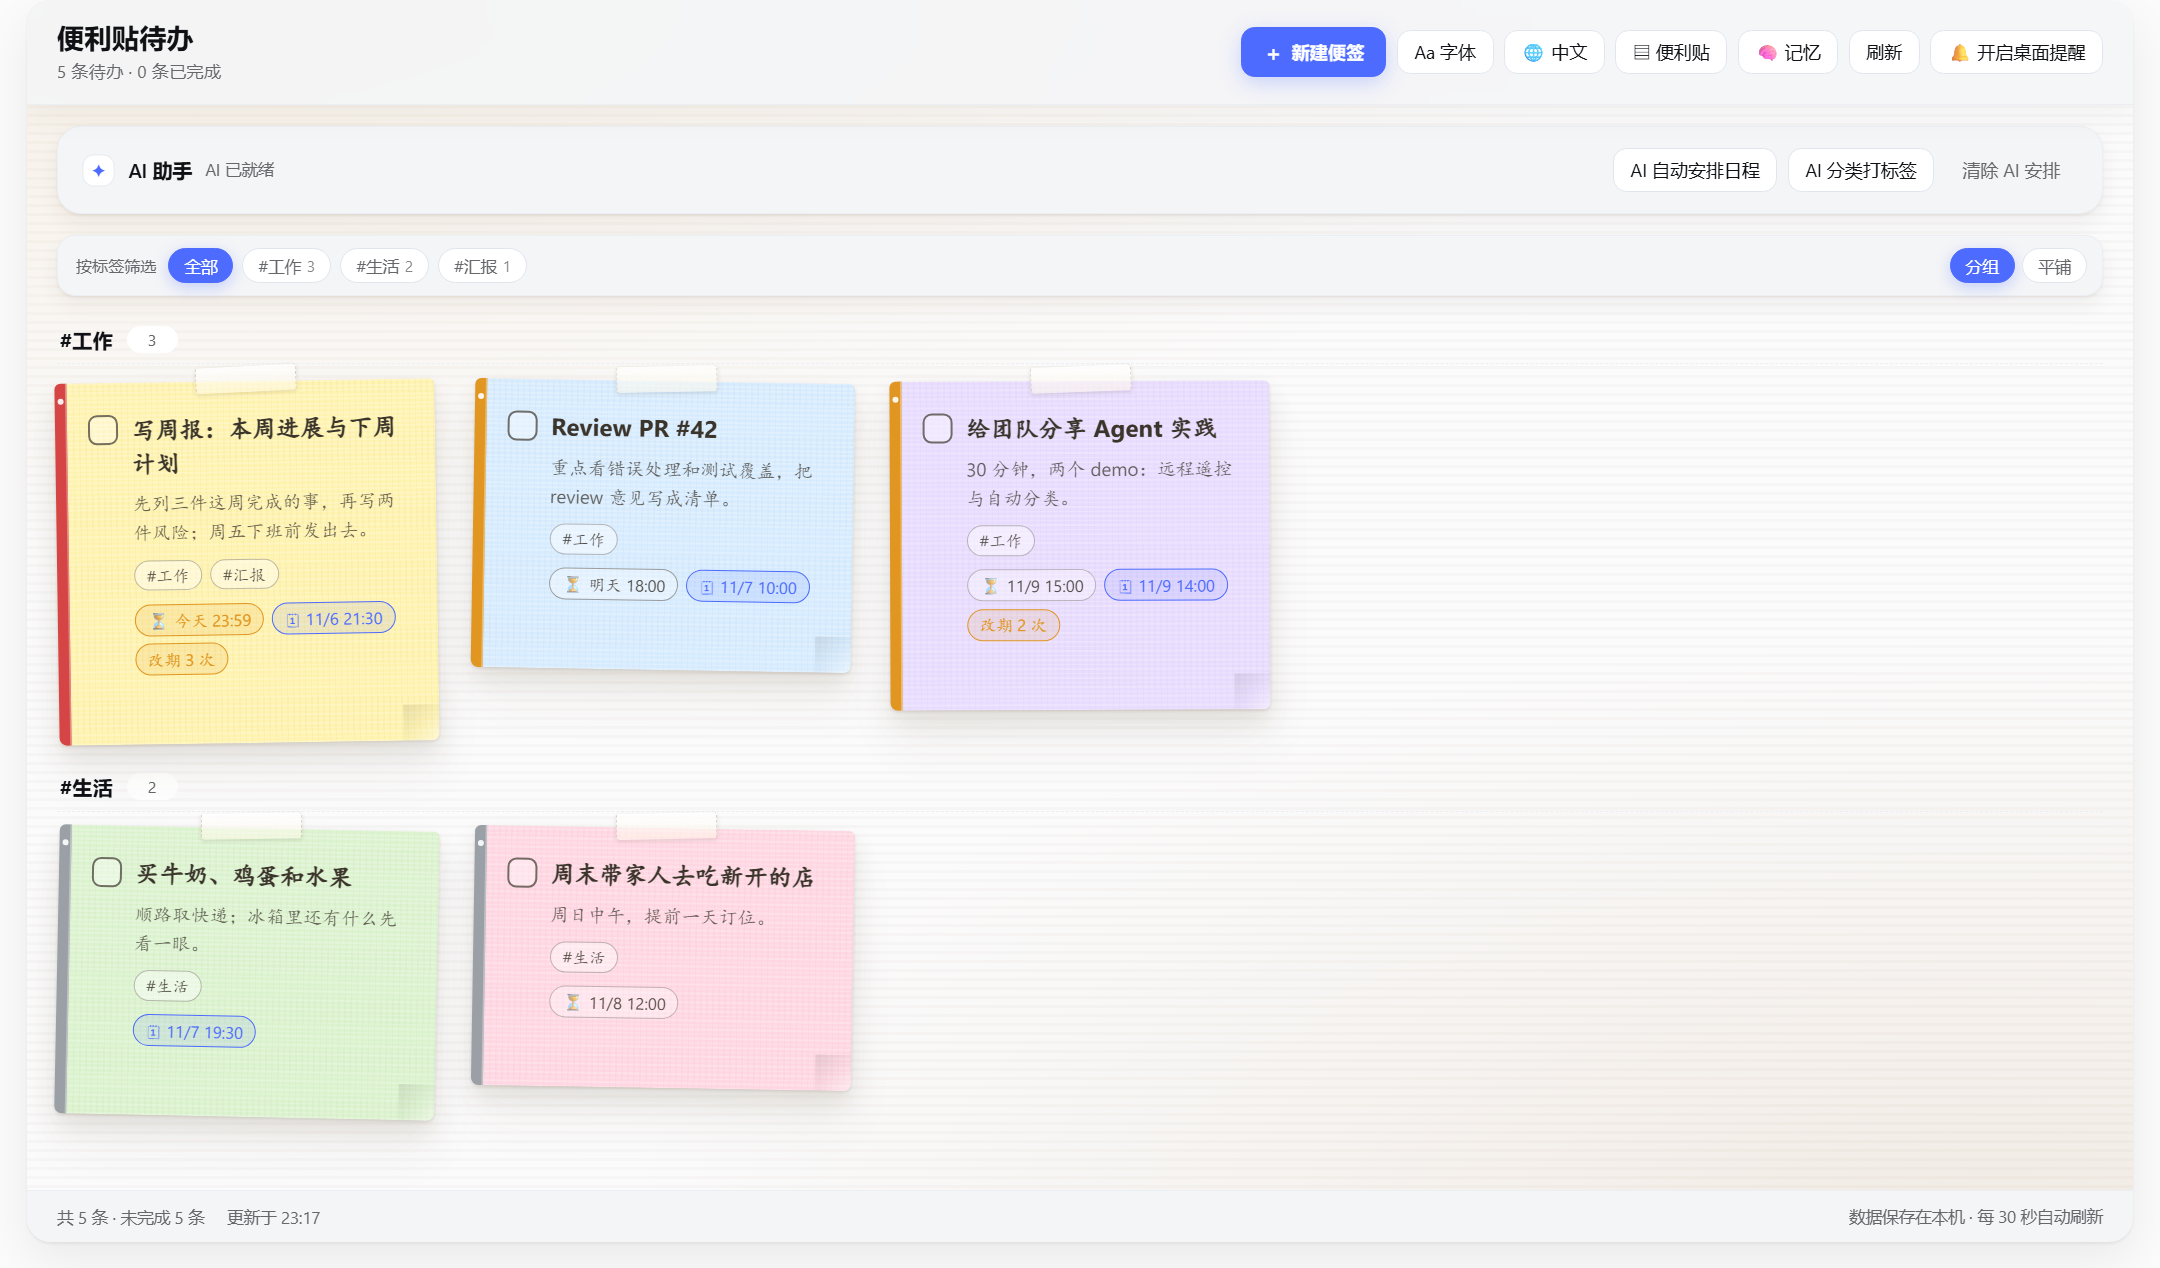
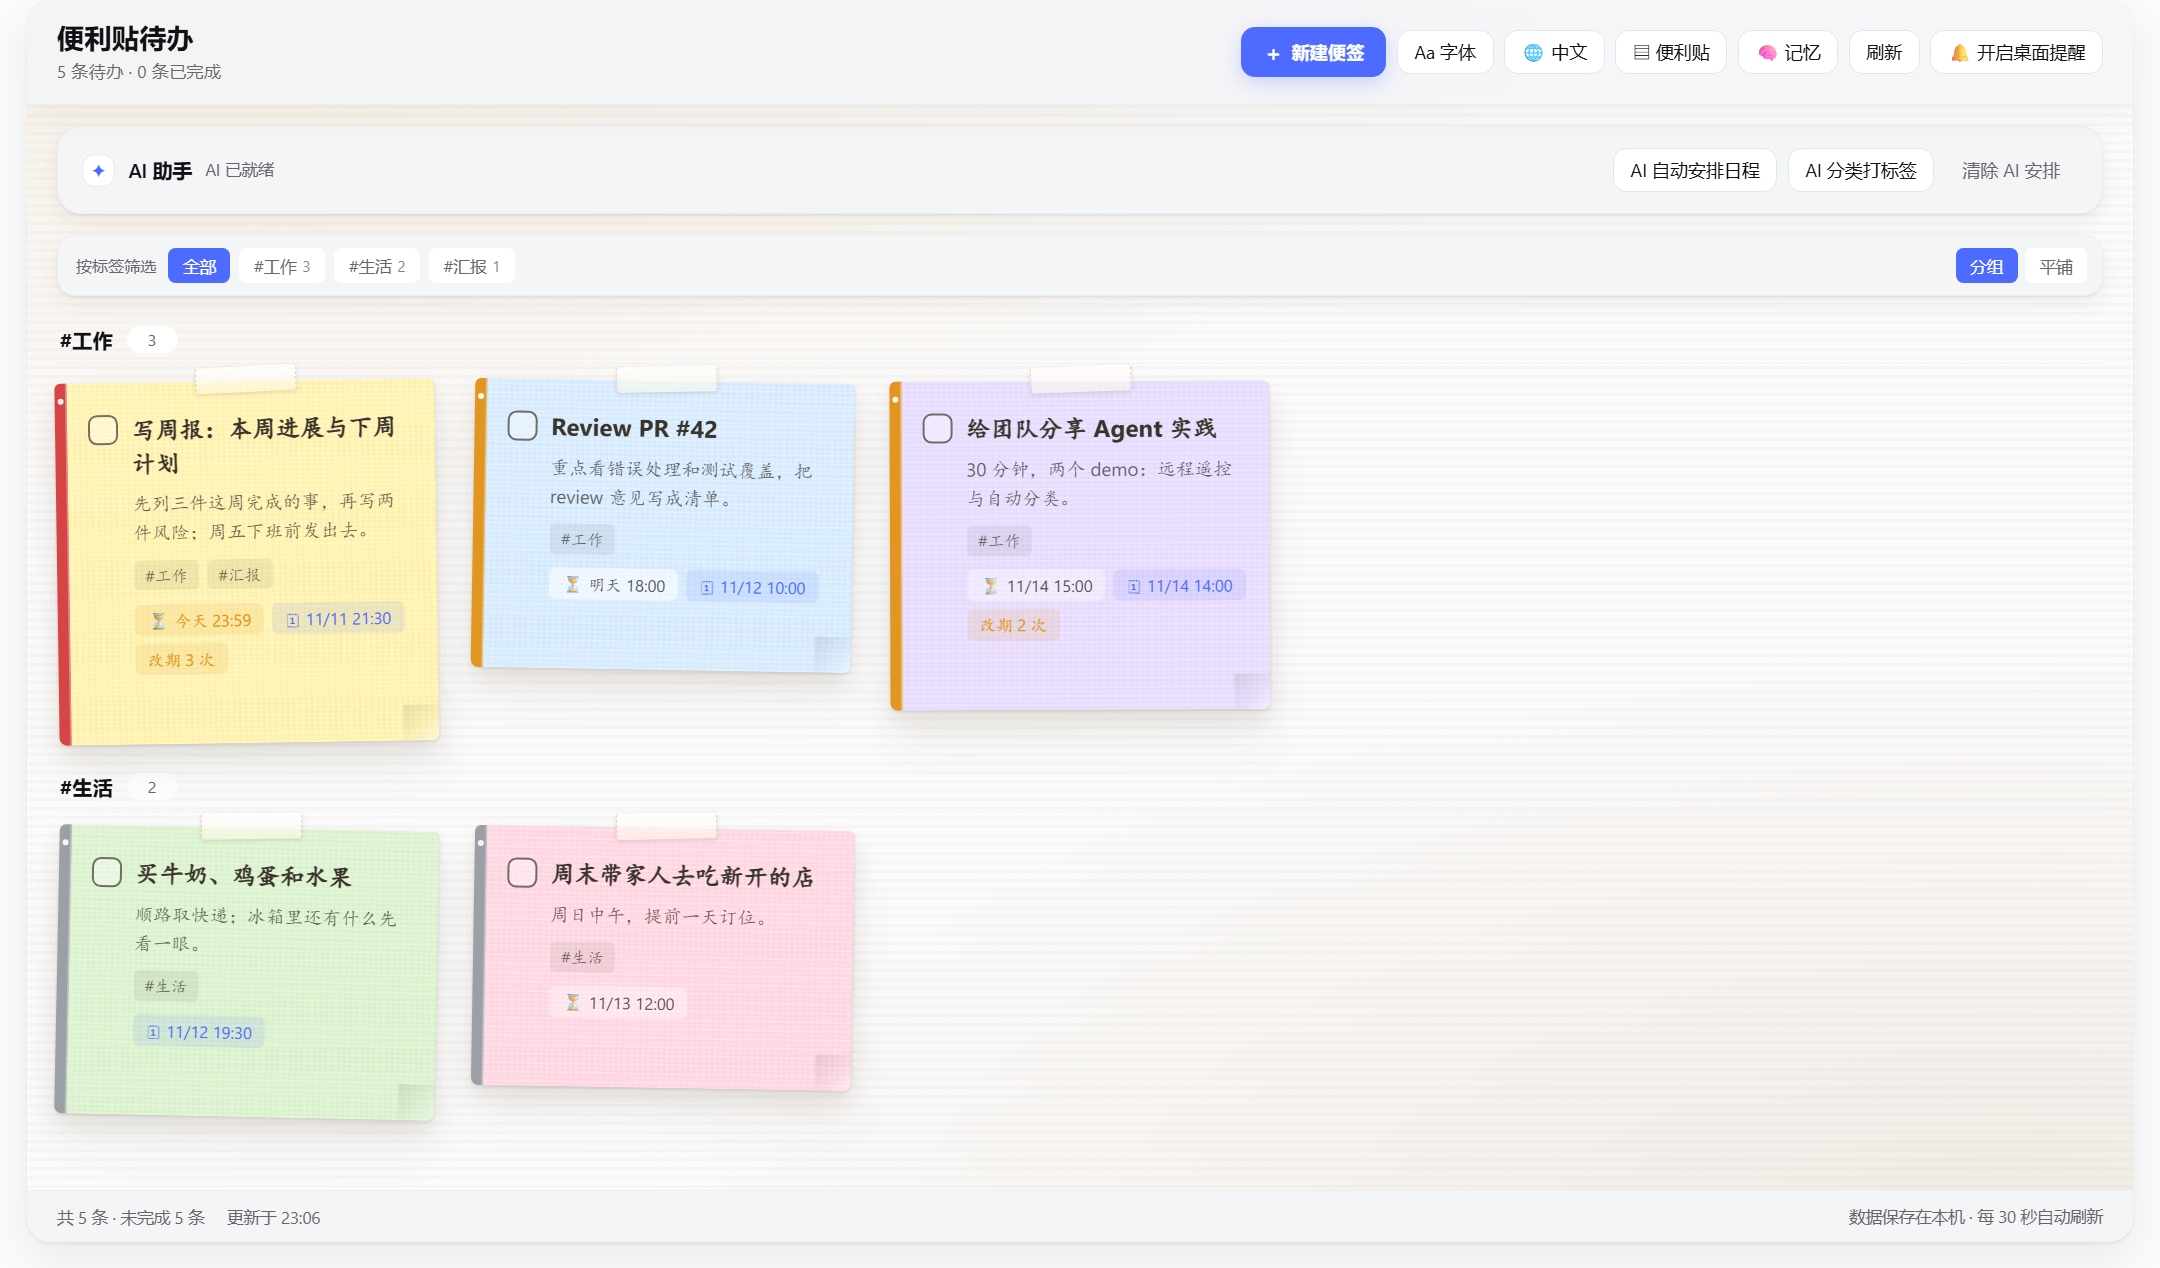
style: flat chips - no border or shadow, 4-5px radius, tint-only hover (v1.8.1)
- tags (#tag), tag filter row, 全部/分组 chips, due/remind/plan/postpone chips on cards, the minimal-list due chip and the list-view tag chips are now flat blocks instead of bordered pills; the translateY hover lift is replaced by a background/colour change
- list-view tag chips get their own ink tint so they stay legible on the row surface
- version 1.8.1, CHANGELOG, HANDOFF and the preview screenshots regenerated with the new style
- verify/check-static version assertion updated to 1.8.1

diff --git a/client.js b/client.js
@@ -1545,18 +1545,18 @@ window.__ModuleLoader__.load({
 /* ------------------------------------------------------------ filter row */
 .stk-filter{display:flex;align-items:center;gap:6px;flex-wrap:wrap;margin:14px 20px 0;padding:8px 10px;border:1px solid var(--dsw-alias-border-l1);border-radius:var(--stk-radius);background:var(--dsw-alias-bg-layer-1);box-shadow:var(--stk-shadow-1)}
 .stk-filter-label{font-size:10.5px;letter-spacing:.02em;color:var(--dsw-alias-label-secondary);padding:0 2px}
-.stk-chip{display:inline-flex;align-items:center;gap:4px;padding:0 8px;min-height:20px;border-radius:999px;border:1px solid rgba(58,52,43,.28);background:rgba(255,255,255,.34);font-family:var(--dsh-font-family-text,inherit);font-size:11px;line-height:19px;color:rgba(58,52,43,.86);white-space:nowrap;transition:transform .15s ease,border-color .15s ease,background .15s ease,color .15s ease}
-.stk-chip--overdue{border-color:var(--dsw-alias-state-error-primary);color:var(--dsw-alias-state-error-primary);background:rgba(214,69,69,.1)}
-.stk-chip--today{border-color:var(--dsw-alias-state-warn-primary);color:var(--dsw-alias-state-warn-primary);background:rgba(224,150,32,.12)}
-.stk-chip--tomorrow{border-color:rgba(58,52,43,.45)}
-.stk-chip--future{border-color:rgba(58,52,43,.3)}
-.stk-chip--plan{border-color:var(--dsw-alias-brand-primary);color:var(--dsw-alias-brand-primary);background:rgba(77,107,254,.1)}
-.stk-chip--tag{font:inherit;font-family:var(--dsh-font-family-text,inherit);font-size:11px;line-height:19px;padding:0 8px;cursor:pointer;border-color:rgba(58,52,43,.32);background:rgba(255,255,255,.44)}
-.stk-chip--tag:hover{transform:translateY(-1px);border-color:var(--dsw-alias-brand-primary);color:var(--dsw-alias-brand-primary);background:rgba(255,255,255,.78)}
-.stk-chip--filter{font:inherit;font-family:var(--dsh-font-family-text,inherit);font-size:11px;line-height:20px;height:23px;box-sizing:border-box;padding:0 10px;cursor:pointer;border-color:var(--dsw-alias-border-l2);background:var(--dsw-alias-bg-layer-2);color:var(--dsw-alias-label-secondary);transition:transform .15s ease,border-color .15s ease,color .15s ease,background .15s ease,box-shadow .15s ease}
-.stk-chip--filter:hover{transform:translateY(-1px);border-color:var(--dsw-alias-brand-primary);color:var(--dsw-alias-brand-primary)}
-.stk-chip--filter:active{transform:translateY(0) scale(.98)}
-.stk-chip--filter[aria-pressed="true"]{background:var(--dsw-alias-brand-primary);border-color:var(--dsw-alias-brand-primary);color:#fff;box-shadow:0 3px 10px rgba(77,107,254,.28)}
+.stk-chip{display:inline-flex;align-items:center;gap:4px;padding:0 8px;min-height:20px;border-radius:5px;border:1px solid transparent;background:rgba(255,255,255,.42);font-family:var(--dsh-font-family-text,inherit);font-size:11px;line-height:19px;color:rgba(58,52,43,.86);white-space:nowrap;transition:background .15s ease,color .15s ease}
+.stk-chip--overdue{border-color:transparent;color:var(--dsw-alias-state-error-primary);background:rgba(214,69,69,.1)}
+.stk-chip--today{border-color:transparent;color:var(--dsw-alias-state-warn-primary);background:rgba(224,150,32,.12)}
+.stk-chip--tomorrow{background:rgba(255,255,255,.55)}
+.stk-chip--future{background:rgba(255,255,255,.36)}
+.stk-chip--plan{border-color:transparent;color:var(--dsw-alias-brand-primary);background:rgba(77,107,254,.1)}
+.stk-chip--tag{font:inherit;font-family:var(--dsh-font-family-text,inherit);font-size:11px;line-height:19px;padding:0 7px;cursor:pointer;border:1px solid transparent;border-radius:4px;background:rgba(58,52,43,.07);color:rgba(58,52,43,.72);box-shadow:none;transition:background .15s ease,color .15s ease}
+.stk-chip--tag:hover{transform:none;border-color:transparent;color:rgba(58,52,43,.92);background:rgba(58,52,43,.13)}
+.stk-chip--filter{font:inherit;font-family:var(--dsh-font-family-text,inherit);font-size:11px;line-height:20px;height:23px;box-sizing:border-box;padding:0 9px;cursor:pointer;border:1px solid transparent;border-radius:5px;background:var(--dsw-alias-bg-layer-2);color:var(--dsw-alias-label-secondary);transition:background .15s ease,color .15s ease}
+.stk-chip--filter:hover{transform:none;border-color:transparent;color:var(--dsw-alias-label-primary);background:var(--dsw-alias-bg-overlay)}
+.stk-chip--filter:active{transform:none}
+.stk-chip--filter[aria-pressed="true"]{background:var(--dsw-alias-brand-primary);border-color:transparent;color:#fff;box-shadow:none}
 .stk-chip-count{font-size:10px;font-variant-numeric:tabular-nums;opacity:.8}
 .stk-layout-toggle{display:flex;gap:5px;margin-left:auto}
 .stk-layout-toggle .stk-chip--filter{height:23px}
@@ -1698,9 +1698,9 @@ window.__ModuleLoader__.load({
 .stk-list-row{flex:1 1 auto;min-width:0;display:flex;align-items:center;gap:10px;padding:2px 0;border:0;background:transparent;color:var(--dsw-alias-label-primary);font:inherit;font-size:13px;line-height:20px;text-align:left;cursor:pointer}
 .stk-list-title{flex:1 1 auto;min-width:0;white-space:nowrap;overflow:hidden;text-overflow:ellipsis;font-weight:550;transition:color .15s ease}
 .stk-list-title--done{text-decoration:line-through;text-decoration-thickness:1.5px;opacity:.62}
-.stk-list-due{flex:0 0 auto;padding:1px 8px;border:1px solid var(--dsw-alias-border-l2);border-radius:999px;font-family:var(--dsh-font-family-text,inherit);font-size:10.5px;line-height:17px;color:var(--dsw-alias-label-secondary);white-space:nowrap}
-.stk-list-due.stk-chip--overdue{border-color:var(--dsw-alias-state-error-primary);color:var(--dsw-alias-state-error-primary);background:rgba(214,69,69,.1)}
-.stk-list-due.stk-chip--today{border-color:var(--dsw-alias-state-warn-primary);color:var(--dsw-alias-state-warn-primary);background:rgba(224,150,32,.12)}
+.stk-list-due{flex:0 0 auto;padding:1px 8px;border:1px solid transparent;border-radius:5px;background:var(--dsw-alias-bg-layer-2);font-family:var(--dsh-font-family-text,inherit);font-size:10.5px;line-height:17px;color:var(--dsw-alias-label-secondary);white-space:nowrap}
+.stk-list-due.stk-chip--overdue{border-color:transparent;color:var(--dsw-alias-state-error-primary);background:rgba(214,69,69,.1)}
+.stk-list-due.stk-chip--today{border-color:transparent;color:var(--dsw-alias-state-warn-primary);background:rgba(224,150,32,.12)}
 .stk-list-chevron{flex:0 0 auto;color:var(--dsw-alias-label-tertiary);font-size:11px;line-height:1;transition:transform .18s ease,color .18s ease}
 .stk-list-item--open .stk-list-chevron{transform:rotate(90deg);color:var(--dsw-alias-brand-primary)}
 .stk-list-details{display:flex;flex-direction:column;gap:8px;margin:0 12px;padding:10px 2px 13px;border-top:1px dashed var(--dsw-alias-border-l1);animation:stk-expand .22s cubic-bezier(.22,.61,.36,1) both}
@@ -1712,8 +1712,9 @@ window.__ModuleLoader__.load({
 .stk-list-actions .stk-note-action--ai{color:var(--dsw-alias-brand-primary);border-color:var(--dsw-alias-brand-primary)}
 .stk-list-actions .stk-note-action--handoff{color:var(--dsw-alias-label-primary);border-color:var(--dsw-alias-border-l2);background:var(--dsw-alias-bg-layer-2)}
 .stk-list-actions .stk-note-action--armed{color:var(--dsw-alias-state-error-primary);border-color:var(--dsw-alias-state-error-primary);background:var(--dsw-alias-bg-overlay)}
-.stk-chip--list{color:var(--dsw-alias-label-secondary);border-color:var(--dsw-alias-border-l2);background:var(--dsw-alias-bg-layer-2)}
-.stk-chip--list.stk-chip--tag:hover{border-color:var(--dsw-alias-brand-primary);color:var(--dsw-alias-brand-primary);background:var(--dsw-alias-bg-layer-2)}
+.stk-chip--list{color:var(--dsw-alias-label-secondary);border-color:transparent;background:var(--dsw-alias-bg-layer-2);border-radius:4px}
+.stk-chip--list.stk-chip--tag{background:rgba(58,52,43,.06);color:var(--dsw-alias-label-secondary)}
+.stk-chip--list.stk-chip--tag:hover{border-color:transparent;color:var(--dsw-alias-label-primary);background:rgba(58,52,43,.12)}
 .stk-chip--list.stk-chip--plan{color:var(--dsw-alias-brand-primary);border-color:var(--dsw-alias-brand-primary);background:rgba(77,107,254,.1)}
 /* ---------------------------------------------------------- memory dialog */
 .stk-modal--memory{width:min(640px,100%)}
@@ -1751,8 +1752,8 @@ window.__ModuleLoader__.load({
 .stk-btn--danger{border-color:var(--dsw-alias-state-error-primary);color:var(--dsw-alias-state-error-primary);background:transparent}
 .stk-btn--danger:hover:not(:disabled){border-color:var(--dsw-alias-state-error-primary);color:var(--dsw-alias-state-error-primary);background:rgba(214,69,69,.1)}
 .stk-btn--danger-armed{background:var(--dsw-alias-state-error-primary);border-color:var(--dsw-alias-state-error-primary);color:#fff}
-.stk-chip--postpone{border-color:var(--dsw-alias-state-warn-primary);color:var(--dsw-alias-state-warn-primary);background:rgba(224,150,32,.12)}
-.stk-chip--list.stk-chip--postpone{color:var(--dsw-alias-state-warn-primary);border-color:var(--dsw-alias-state-warn-primary);background:rgba(224,150,32,.12)}
+.stk-chip--postpone{border-color:transparent;color:var(--dsw-alias-state-warn-primary);background:rgba(224,150,32,.12)}
+.stk-chip--list.stk-chip--postpone{color:var(--dsw-alias-state-warn-primary);border-color:transparent;background:rgba(224,150,32,.14)}
 /* -------------------------------------------------------------- keyframes */
 @keyframes stk-rise{from{opacity:0;transform:translateY(10px)}to{opacity:1;transform:translateY(0)}}
 @keyframes stk-fade{from{opacity:0}to{opacity:1}}

diff --git a/CHANGELOG.md b/CHANGELOG.md
@@ -6,6 +6,17 @@ All notable changes to this plugin are documented here. The format follows
 
 ## [Unreleased]
 
+## [1.8.1] — 2026-11-11
+
+### Changed
+- **Flatter chips.** The little chips are now flat instead of pill-shaped: no border, no shadow, a
+  4–5 px radius, one flat tint per state, and a background / text-colour-only hover (the old
+  `translateY(-1px)` lift is gone). Covers the note tags (`#tag`), the tag filter row and its
+  `全部` / `分组` chips, the due / reminder / plan / postpone chips on cards, the minimal-list due
+  chip and the tag chips inside an expanded list row. Chrome and text still use `--dsw-alias-*`
+  tokens, so light and dark themes stay correct.
+- Styling-only release: no API, storage, behaviour or dependency change.
+
 ## [1.8.0] — 2026-11-06
 
 ### Fixed

diff --git a/README.en.md b/README.en.md
@@ -1,6 +1,6 @@
 # Sticker TODO · 便利贴待办
 
-![version](https://img.shields.io/badge/version-1.8.0-4d6bfe)
+![version](https://img.shields.io/badge/version-1.8.1-4d6bfe)
 [![npm](https://img.shields.io/npm/v/dsh-sticker-todo)](https://www.npmjs.com/package/dsh-sticker-todo)
 [![verify](https://github.com/kevin-qiao/dsh-todo/actions/workflows/verify.yml/badge.svg)](https://github.com/kevin-qiao/dsh-todo/actions/workflows/verify.yml)
 ![i18n](https://img.shields.io/badge/i18n-zh%20%7C%20en-2f9e44)

diff --git a/README.md b/README.md
@@ -1,6 +1,6 @@
 # 便利贴待办 · Sticker TODO
 
-![version](https://img.shields.io/badge/version-1.8.0-4d6bfe)
+![version](https://img.shields.io/badge/version-1.8.1-4d6bfe)
 [![npm](https://img.shields.io/npm/v/dsh-sticker-todo)](https://www.npmjs.com/package/dsh-sticker-todo)
 [![verify](https://github.com/kevin-qiao/dsh-todo/actions/workflows/verify.yml/badge.svg)](https://github.com/kevin-qiao/dsh-todo/actions/workflows/verify.yml)
 ![i18n](https://img.shields.io/badge/i18n-zh%20%7C%20en-2f9e44)

diff --git a/HANDOFF.md b/HANDOFF.md
@@ -1,7 +1,8 @@
 # 便利贴待办 · Sticker TODO — 维护者交接
 
 本仓库就是插件包 **`dsh-sticker-todo`** 的根目录（v1.6.0 起从 `@local/dsh-sticker-todo` 改名并发布到
-npm；仓库与市场仍用 `dsh-to-do` 这个仓库名）。当前版本 **1.8.0**，已发布到 npm（`latest = 1.8.0`）。
+npm；仓库与市场仍用 `dsh-to-do` 这个仓库名）。当前版本 **1.8.1**（扁平化标签样式，待发布）；
+npm 上 `latest = 1.8.0`。
 
 ## 发布到 npm
 
